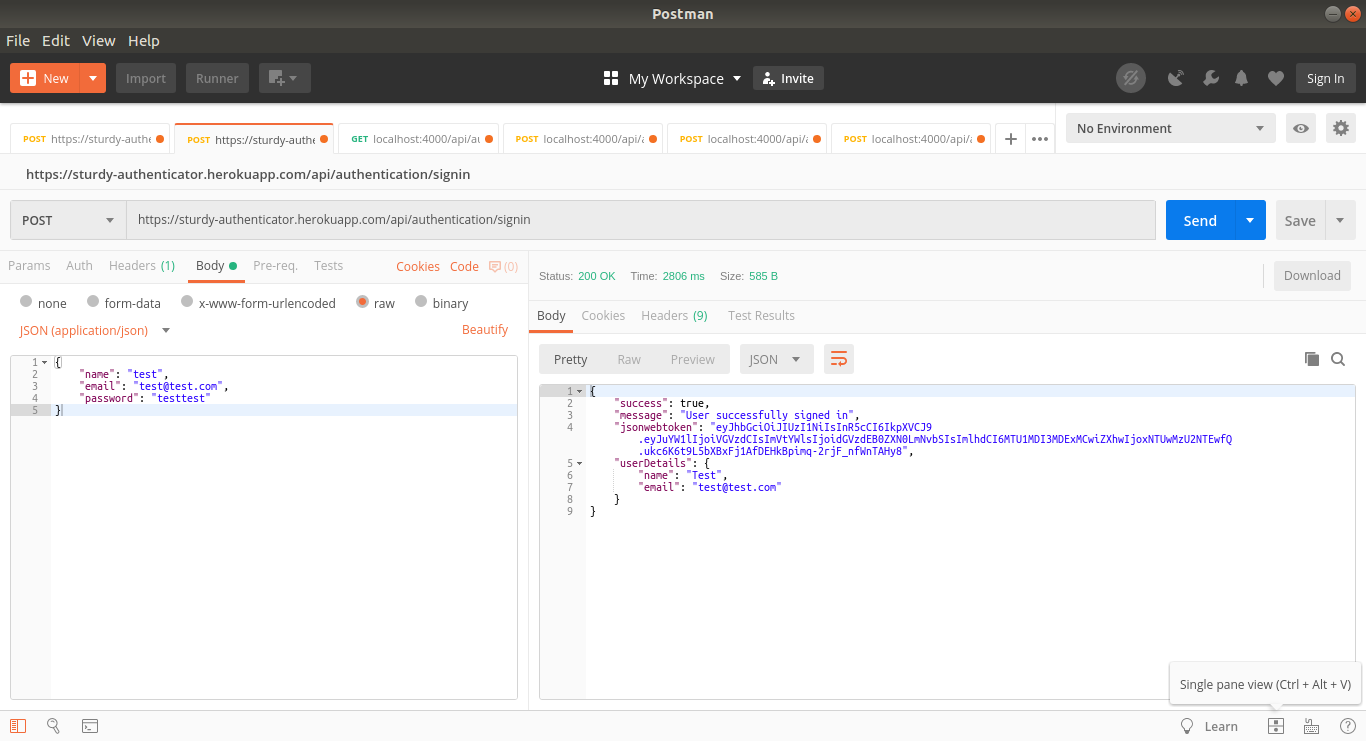
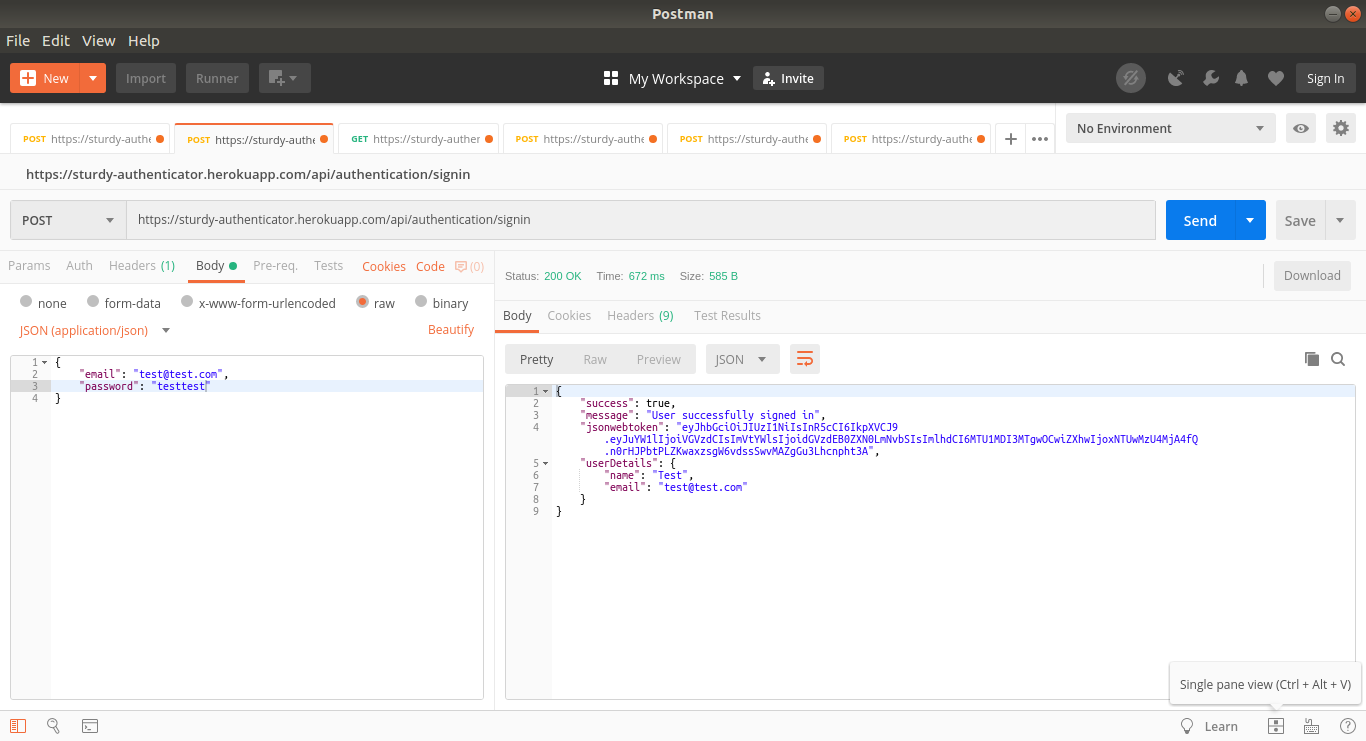
adds readme file with screengrabs

diff --git a/README.md b/README.md
@@ -1,1 +1,91 @@
 # sturdy-authenticator
+
+This is pure backend REST API project with full authentication system.  
+
+You can access the live APIs [here](https://sturdy-authenticator.herokuapp.com).  
+
+The live version of the app uses _heroku_ for hosting the `express` app and _mlab_ for `mongoDB` database.  
+
+#### The below are the full HTTP requests and their corresponding screengrabs on Postman.
+***
+**Signup**  
+```
+POST /api/authentication/signup HTTP/1.1
+Host: sturdy-authenticator.herokuapp.com
+Content-Type: application/json
+cache-control: no-cache
+Postman-Token: 1258c73a-2136-4f4a-aeae-8d28e093443d
+{
+	"name":"test",
+	"email":"test@test.com",
+	"password":"testtest"
+}------WebKitFormBoundary7MA4YWxkTrZu0gW--
+```
+![signup image](https://raw.githubusercontent.com/s-xync/sturdy-authenticator/master/showcase_images/1_signup_hrg.png)  
+***
+**Signin**  
+```
+POST /api/authentication/signin HTTP/1.1
+Host: sturdy-authenticator.herokuapp.com
+Content-Type: application/json
+cache-control: no-cache
+Postman-Token: c2546349-0e6e-4bf0-b5c8-9630089963b2
+{
+    "email": "test@test.com",
+    "password": "testtest"
+}------WebKitFormBoundary7MA4YWxkTrZu0gW--
+```
+![signin image](https://raw.githubusercontent.com/s-xync/sturdy-authenticator/master/showcase_images/2_signin_hrg.png)  
+***
+**Get Session**  
+```
+GET /api/authentication/session HTTP/1.1
+Host: sturdy-authenticator.herokuapp.com
+authorization: Bearer eyJhbGciOiJIUzI1NiIsInR5cCI6IkpXVCJ9.eyJuYW1lIjoiVGVzdCIsImVtYWlsIjoidGVzdEB0ZXN0LmNvbSIsImlhdCI6MTU1MDI3MDExMCwiZXhwIjoxNTUwMzU2NTEwfQ.ukc6K6t9L5bXBxFj1AfDEHkBpimq-2rjF_nfWnTAHy8
+cache-control: no-cache
+Postman-Token: 5721bca2-c741-46d4-b1d8-f2c4b3429353
+```
+![session image](https://raw.githubusercontent.com/s-xync/sturdy-authenticator/master/showcase_images/3_session_hrg.png)  
+***
+**Logout**  
+```
+POST /api/authentication/logout? HTTP/1.1
+Host: sturdy-authenticator.herokuapp.com
+authorization: Bearer eyJhbGciOiJIUzI1NiIsInR5cCI6IkpXVCJ9.eyJuYW1lIjoiVGVzdCIsImVtYWlsIjoidGVzdEB0ZXN0LmNvbSIsImlhdCI6MTU1MDI3MDExMCwiZXhwIjoxNTUwMzU2NTEwfQ.ukc6K6t9L5bXBxFj1AfDEHkBpimq-2rjF_nfWnTAHy8
+cache-control: no-cache
+Postman-Token: 7c814fe7-7d07-4c2c-aea3-e2b0fbcb8a7f
+
+```
+![signup image](https://raw.githubusercontent.com/s-xync/sturdy-authenticator/master/showcase_images/4_logout_hrg.png)  
+***
+**Forgot Password**  
+```
+POST /api/authentication/forgotpassword HTTP/1.1
+Host: sturdy-authenticator.herokuapp.com
+Content-Type: application/json
+cache-control: no-cache
+Postman-Token: fe0391f7-5d32-4b46-a6cc-e273faf036b5
+{
+	"email":"test@test.com"
+}------WebKitFormBoundary7MA4YWxkTrZu0gW--
+```
+![signup image](https://raw.githubusercontent.com/s-xync/sturdy-authenticator/master/showcase_images/5_forgotpassword_hrg.png)  
+***
+**Reset Password**  
+```
+POST /api/authentication/resetpassword HTTP/1.1
+Host: sturdy-authenticator.herokuapp.com
+authorization: Bearer eyJhbGciOiJIUzI1NiIsInR5cCI6IkpXVCJ9.eyJlbWFpbCI6InRlc3RAdGVzdC5jb20iLCJpYXQiOjE1NTAyNzAzMjgsImV4cCI6MTU1MDI3MzkyOH0.7R9UWnvnDYCbbdyORAB2CXC4siS8acBLZtAcKJ-t9qA
+Content-Type: application/json
+cache-control: no-cache
+Postman-Token: b4cc4f1a-91d8-4560-be45-6bcfd3dacdc8
+{
+    "password": "testtesttest"
+}------WebKitFormBoundary7MA4YWxkTrZu0gW--
+```
+![signup image](https://raw.githubusercontent.com/s-xync/sturdy-authenticator/master/showcase_images/6_resetpassword_hrg.png)  
+***
+
+You can access the live APIs [here](https://sturdy-authenticator.herokuapp.com). 
+
+## Thanks!
